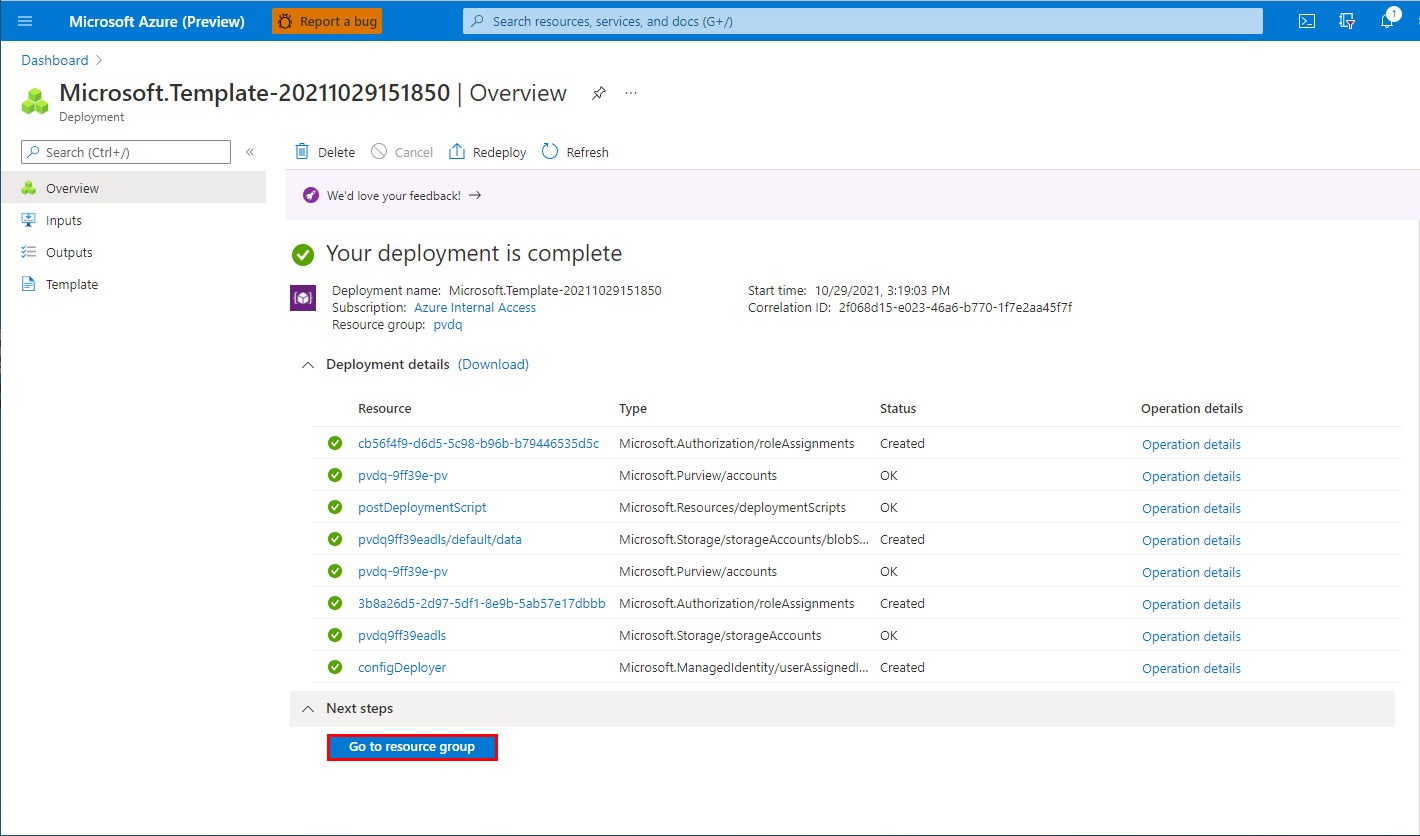
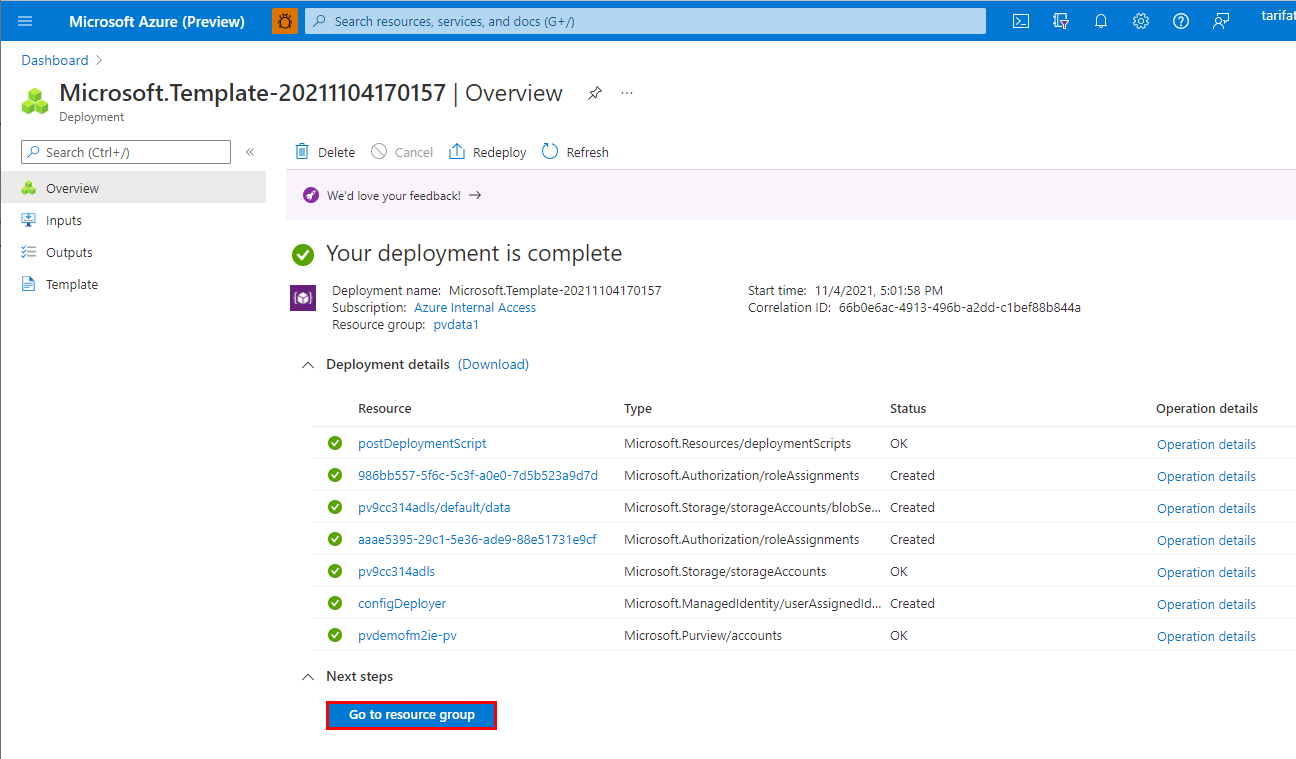
image

diff --git a/steps/step02.md b/steps/step02.md
@@ -19,7 +19,7 @@
 
     ![](/images/0007.png)
 
-5. Select the appropriate **Azure subscription** and **Storage account** (e.g. `pvdq{randomId}adls`), then click **Register**.
+5. Select the appropriate **Azure subscription** and **Storage account** (e.g. `pv{randomId}adls`), then click **Register**.
 
     ![](/images/0008.png)
 
